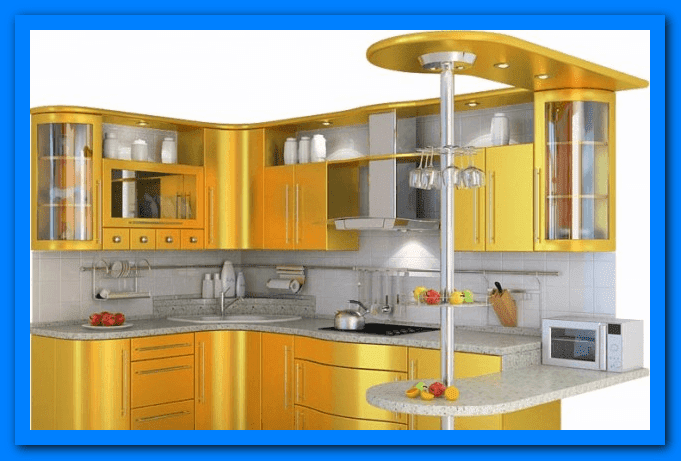
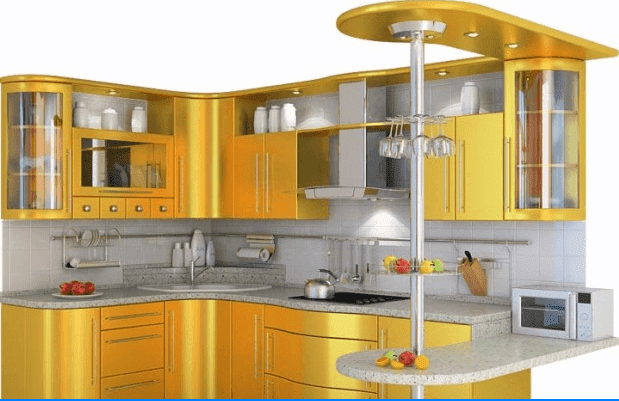
recorte imagenes con borde azul  y modificacion indexcontroller para que muestre solo destacados

diff --git a/site/src/controllers/indexController.js b/site/src/controllers/indexController.js
@@ -8,7 +8,7 @@ module.exports = {
         db.Product.findAll({ //Encontra todos los productos
             where: { // donde
                 discount: { // el valor de la columna (database) "discount"
-                    [Op.gte]: 0 // sea mayor o igual a 5
+                    [Op.gte]: 5 // sea mayor o igual a 5
                 }
             },
             include: [{association: "images"}]
